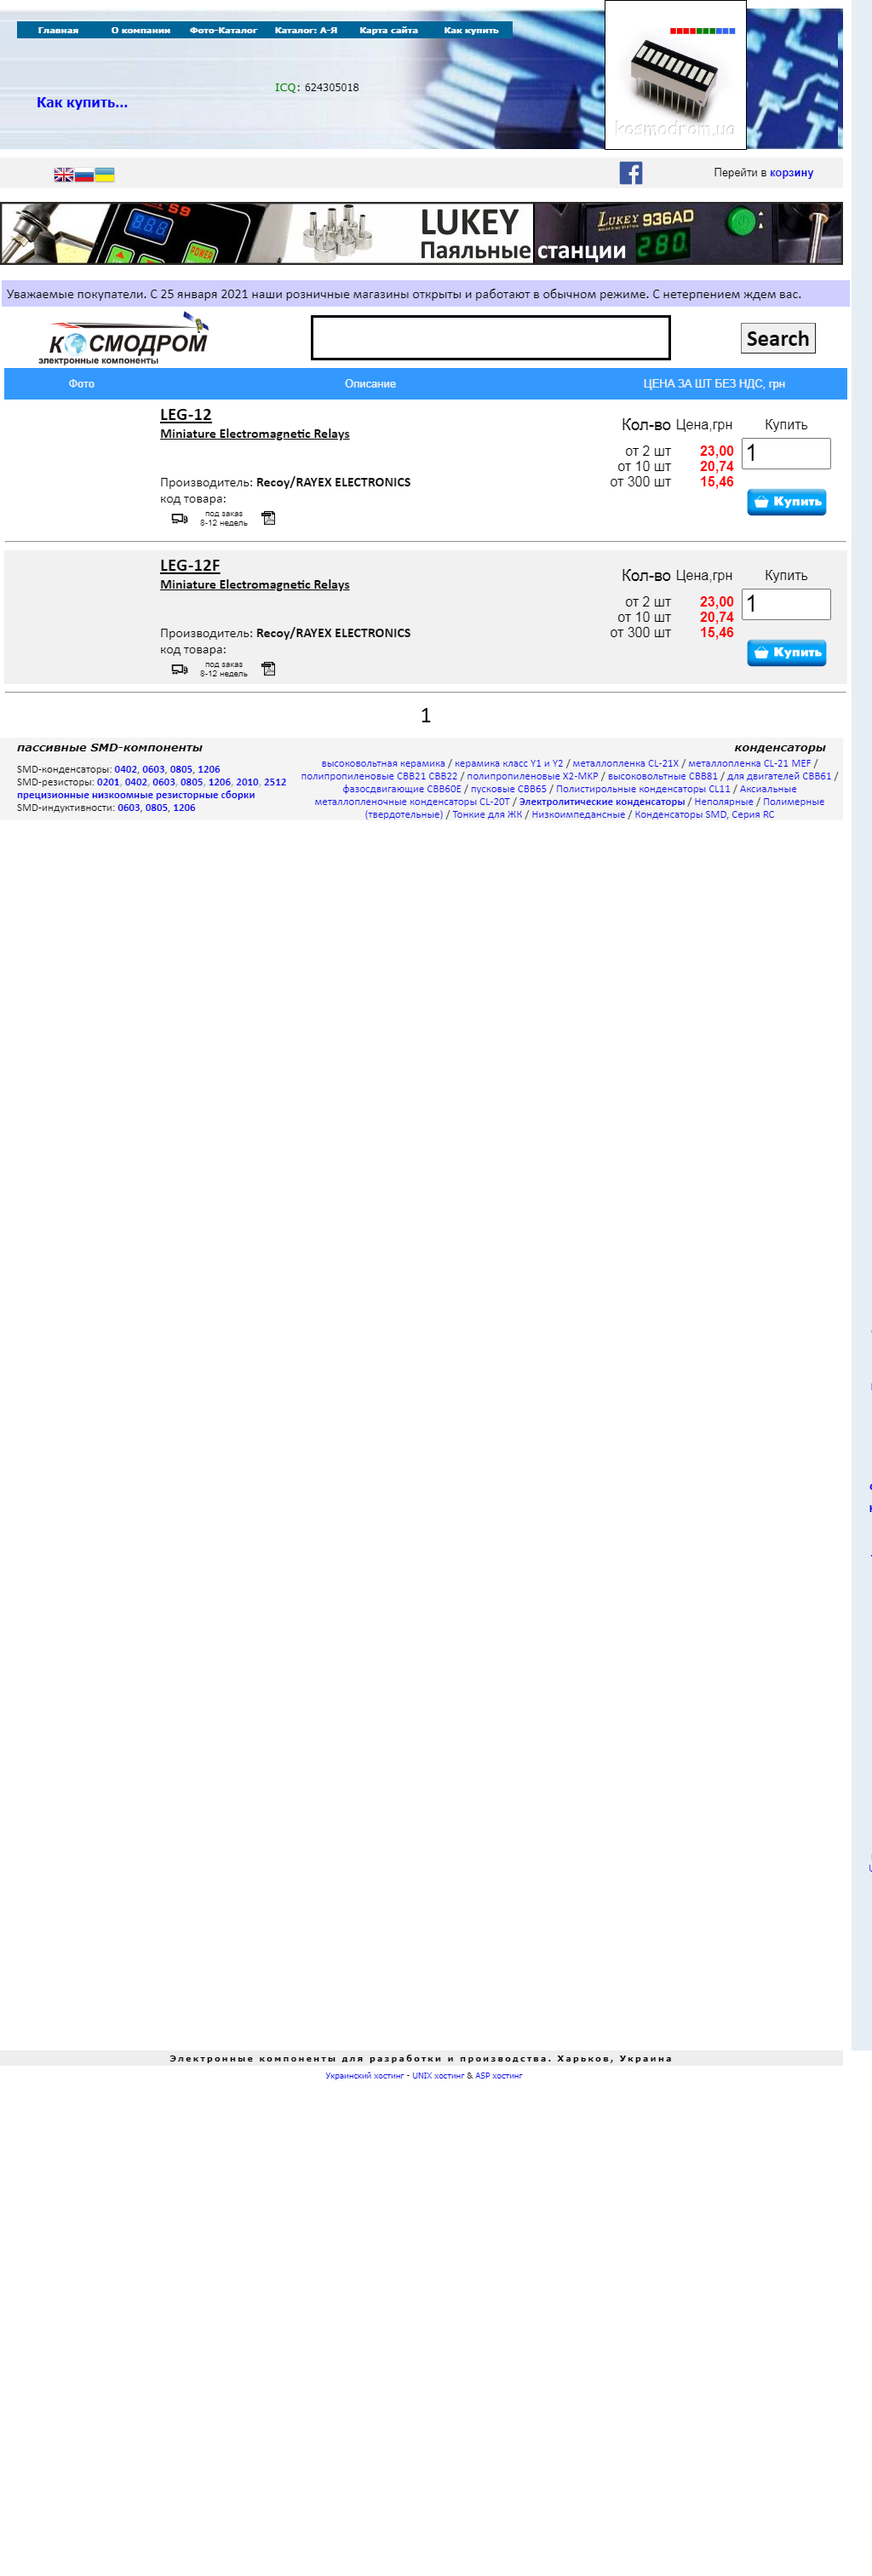
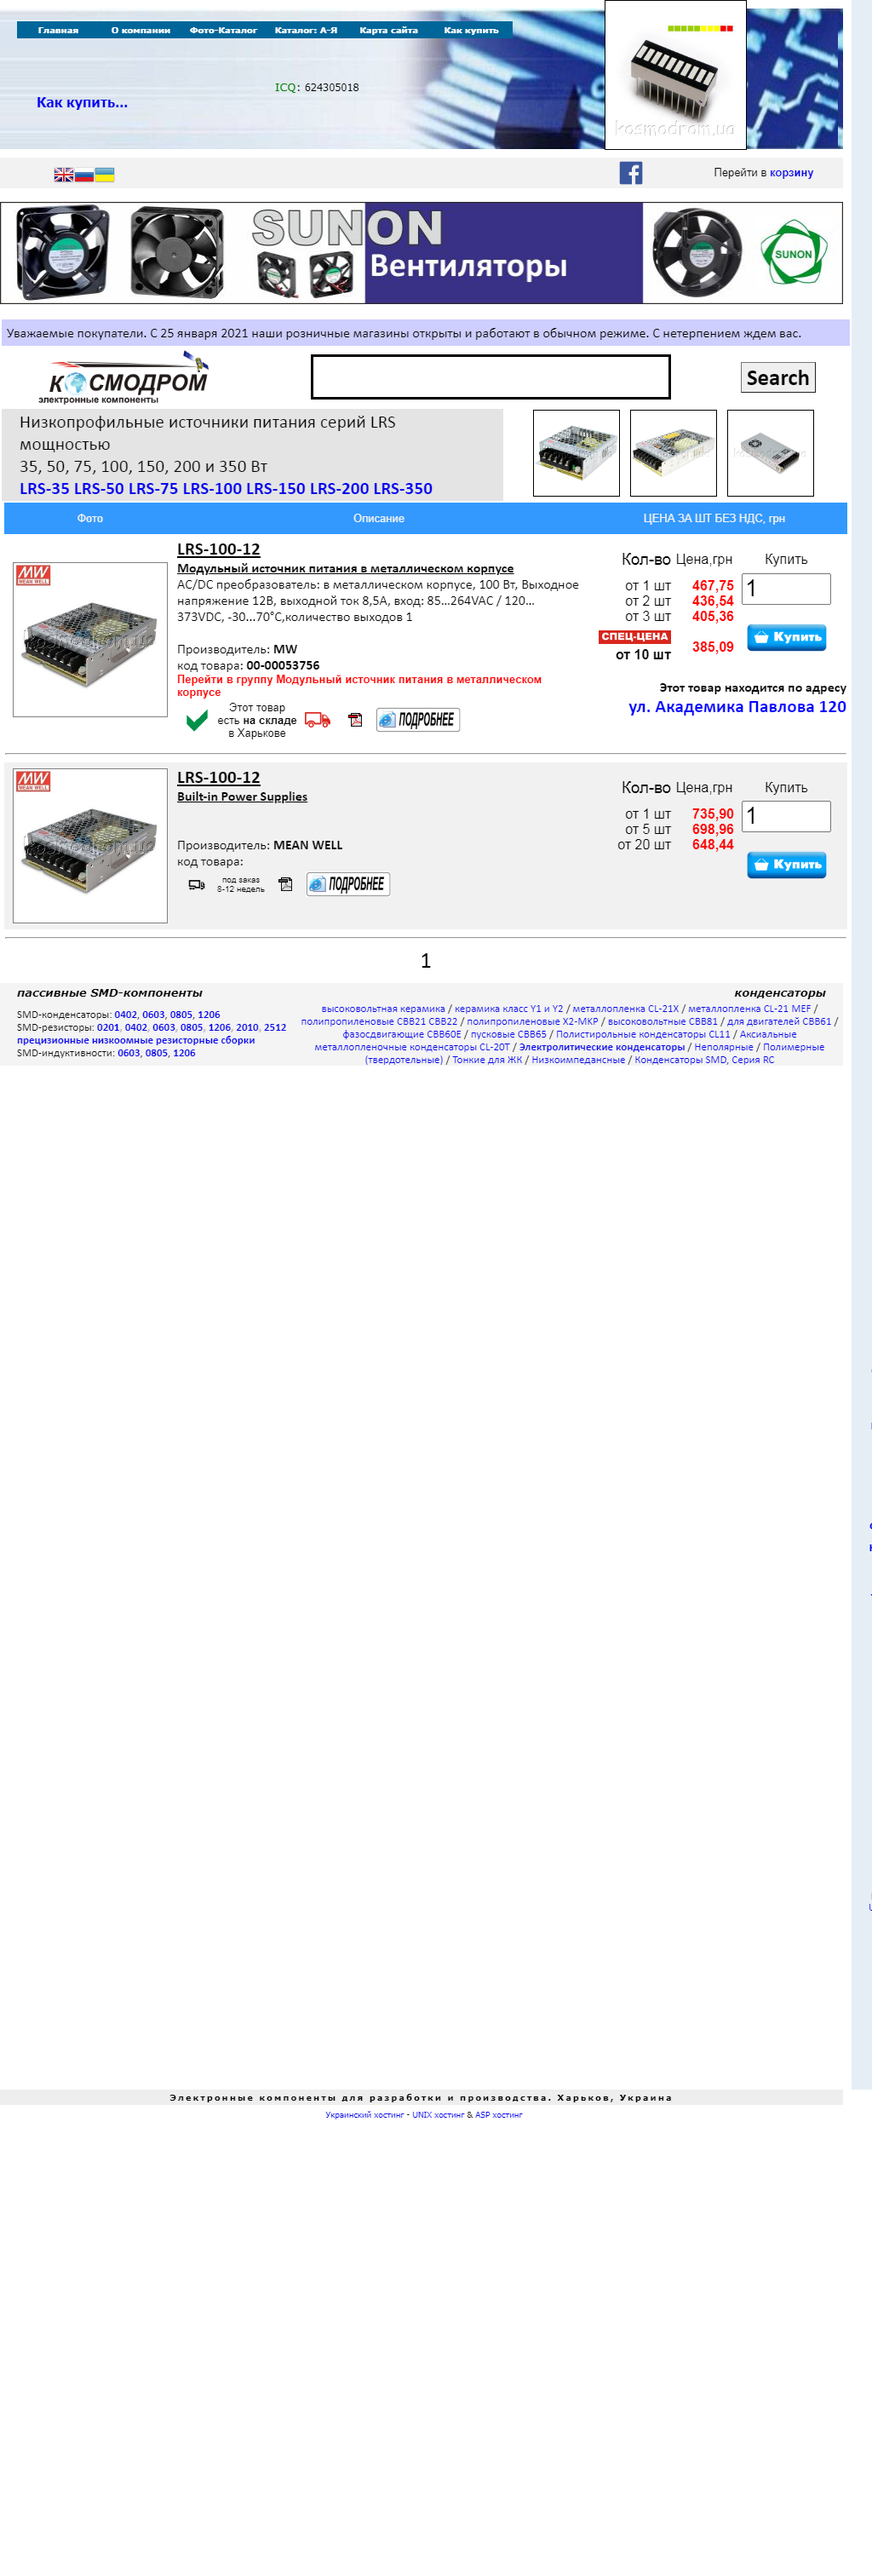
add shop 'Мастерам' and fix some bugs

Changed region(s): [[0.0, 0.0622, 0.9688, 0.4352], [0.7812, 0.0, 0.8438, 0.0311], [0.9688, 0.7771, 1.0, 0.8082]]

diff --git a/src/masteram.js b/src/masteram.js
@@ -1,0 +1,54 @@
+const puppeteer = require('puppeteer');
+const config = require('../config');
+const path = require('path');
+
+const masteram = async (param, pathToImg) => {
+  const browser = await puppeteer.launch({headless: config.browserHeadless});
+  const page = await browser.newPage();
+  const url = `${config.searceUrls.masteram}${param}`;
+  await page.goto(url);
+  await page.setViewport({
+    width: 1024,
+    height: 3024
+  })
+  if (config.makeScreenshot) await page.screenshot({path: path.join(pathToImg, 'masteram.png')});
+  const result = await page.evaluate(() => {
+    try {
+      const div = document.querySelectorAll('div[class="row grid-type"]')[0];
+      const arrOfGoodsCard = Array.from(div.querySelectorAll('div[class="col-xs-12 col-sm-6 col-md-6 col-lg-4 relative product-col"]'));
+      const arrOfGoodsDescriptions = arrOfGoodsCard.map(goodsCard => {
+        let name, inStock, price;
+        const code = goodsCard.dataset.id;
+        const checkName = goodsCard.querySelector('div[class="prc_name"]');
+        checkName
+          ? name = checkName.textContent.trim()
+          : name = 'Не отримано'
+        const inStockPlusPrice = goodsCard.querySelectorAll('div[class="full-width clearfix"]'); // colection of elements
+        const checkStock = inStockPlusPrice[0].lastElementChild;
+        checkStock
+          ? inStock = checkStock.textContent.trim()
+          : inStock = 'Не отримано'
+        const checkPrice = inStockPlusPrice[1].querySelector('div[class="-current"]');
+        checkPrice
+          ? price = checkPrice.textContent.trim()
+          : price = 'Не отримано'
+        return {
+          code,
+          name,
+          inStock,
+          price
+        };
+      });
+      return arrOfGoodsDescriptions;
+    } catch (e) {
+      console.error(e);
+      return { message: 'Товар не знайдено!' }
+    }
+  });
+  await browser.close();
+  return result;
+}
+
+module.exports = {
+  masteram,
+}

diff --git a/index.js b/index.js
@@ -1,15 +1,16 @@
 const path = require('path');
-const { rcs } = require('./src/rcs');
+const {rcs} = require('./src/rcs');
 const {vdmais} = require('./src/vdmais');
 const {electronoff} = require('./src/electronoff');
 const {cosmodrom} = require('./src/cosmodrom');
+const {masteram} = require('./src/masteram');
 const {saveInFile} = require('./src/helper/saveInFile');
 
 const pathToSaveFiles = path.join(__dirname, 'files');
 const pathToTextFile = path.join(pathToSaveFiles, 'text');
 const pathToImg = path.join(pathToSaveFiles, 'img');
 
-const param = 'leg-12';
+const param = 'lrs-100-12';
 
 rcs(param, pathToImg)
   .then(data => saveInFile(pathToTextFile, "rcs.json", data))
@@ -26,6 +27,10 @@ electronoff(param, pathToImg)
 cosmodrom(param, pathToImg)
   .then(data => saveInFile(pathToTextFile, "cosmodrom.json", data))
   .catch(e => console.error(e));
+
+  masteram(param, pathToImg)
+    .then(data => saveInFile(pathToTextFile, "masteram.json", data))
+    .catch(e => console.error(e));
 
 // TODO: Error: net::ERR_CONNECTION_TIMED_OUT
 

diff --git a/src/cosmodrom.js b/src/cosmodrom.js
@@ -16,8 +16,8 @@ const cosmodrom = async (param, pathToImg) => {
   const table = await page.evaluate(() => {
     const tr = Array.from(document.querySelectorAll('tr[bgcolor]'));
     const result = tr.map(elementTR => {
-        let description = elementTR.children[1]
-        description = description.firstChild.firstChild.textContent;
+        let name = elementTR.children[1]
+        name = name.firstChild.firstChild.textContent;
         let price = elementTR.lastElementChild
         if (!price) price = 'Ціну не отримано';
         try {
@@ -27,8 +27,7 @@ const cosmodrom = async (param, pathToImg) => {
           price = 'Ціну не отримано'
           console.error(e)
         }
-        console.log(description, '\n', price);
-        return {description, price};
+        return {name, price};
     })
     return result;
   });

diff --git a/src/vdmais.js b/src/vdmais.js
@@ -16,11 +16,12 @@ const vdmais = async (param, pathToImg) => {
     const tr = Array.from(document.querySelectorAll('.table-orders_catalog__row'));
     const text = tr.map(td => {
       const raw = td.textContent;
-      return raw.replace(/(\t)/gm, '').trim();
+      return raw.replace(/(\t)/gm, '').replace(/ /gm, '').trim();
     });
     return text;
   });
   await browser.close();
+  if (!table.length) return { message: 'Товар не знайдено!' };
   return table;
 }
 
